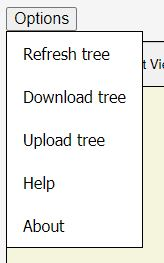
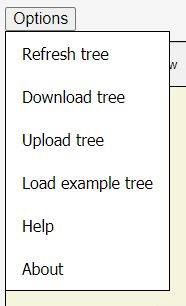
added an example tree for user-testing purposes

diff --git a/public/help.html b/public/help.html
@@ -108,6 +108,7 @@
             <li>The Refresh Tree option shouldn't be necessary for usage, but you can use it in a group to request a fresh version of the tree from the server, or in a private session to refresh the editors.</li>
             <li>The Download Tree option saves a JSON file of the tree and its attributes to your computer.</li>
             <li>The Upload Tree option prompts you for a JSON file in the same format as can be downloaded in the option above. When given, it will completely update the tree and its attributes to the new version, including sending it to your group members.</li>
+            <li>The Load Example Tree option loads an example tree with some attributes for the sake of interacting with more structured trees and experimenting with varying different attributes.</li>
             <li>The help option brings you to this page.</li>
             <li>The about option opens a page telling you about this project.</li>
         </ul>

diff --git a/public/resources/scripts/atree.js b/public/resources/scripts/atree.js
@@ -563,3 +563,20 @@ function RefreshTree() {
         socket.emit('tree_req', 'REQUEST FOR TREE');
     }
 };
+
+// Loads the example tree.
+function LoadExampleTree() {
+    const tree_req = new XMLHttpRequest();
+    tree_req.open("GET", '/example_tree');
+    tree_req.send();
+
+    tree_req.onreadystatechange = (e) => {
+        var json_str = tree_req.responseText;
+        var data = JSON.parse(json_str);
+        var graph = ReturnGraph();
+        UpdateGraphAttributes(data.attributes);
+        UpdateGraphCells(graph, data.cells);
+        EmitTree(graph);
+    };
+    
+};

diff --git a/server.js b/server.js
@@ -24,6 +24,9 @@ function setup_express() {
         .get('/', (req, res) => {
             res.sendFile(path.join(__dirname, '/public/main.html'));
         })
+        .get('/example_tree', (req, res) => {
+            res.sendFile(path.join(__dirname, '/public/resources/exampletree.json'));
+        })
         .get('/about', (req, res) => {
             res.sendFile(path.join(__dirname, '/public/about.html'));
         })

diff --git a/public/tree_builder.html b/public/tree_builder.html
@@ -35,6 +35,7 @@
             <a onclick='RefreshTree()'>Refresh tree</a>
             <a onclick='DownloadGraphJSON()'>Download tree</a>
             <a onclick='ImportJSON()'>Upload tree</a>
+            <a onclick='LoadExampleTree()'>Load example tree</a>
             <a onclick='GoToHelp()'>Help</a>
             <a onclick='GoToAbout()'>About</a>
         </div>
